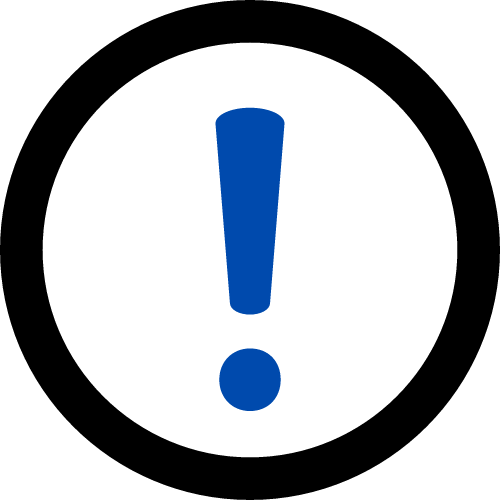
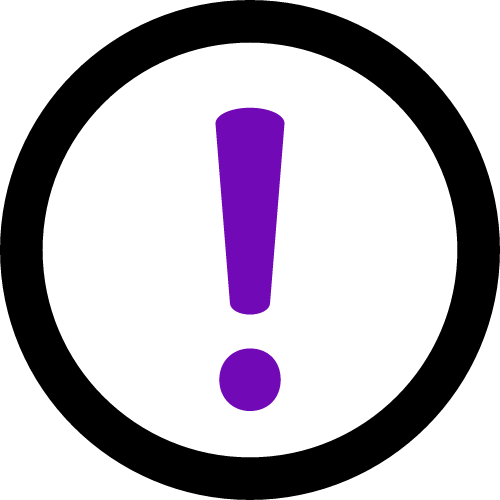
General styling changes, added del functionalities

Changed region(s): [[0.42, 0.21, 0.57, 0.63], [0.42, 0.69, 0.57, 0.84]]

diff --git a/popup/popup.css b/popup/popup.css
@@ -1,31 +1,31 @@
 :root {
-  --blue1: #a4cbff;
-  --blueLogo: #004aad;
-  --blue: #a4cbff;
-  --grey: rgb(240, 240, 240);
+  --main-color: #190028;
+  --button-color: #7209b7;
+  --button-hover-color: #f72585;
 }
 body {
-  width: 25rem;
+  min-width: 25rem;
   font-family: 'Inter', sans-serif;
-  background-color: var(--blue);
+  background-color: var(--main-color);
+  color: whitesmoke;
 }
-h1 {
-  text-align: center;
-  font-weight: 900;
+table {
+  min-width: 100%;
 }
 table,
 td {
-  border: 2px solid black;
+  border: 1px solid whitesmoke;
   border-collapse: collapse;
 }
 td {
   padding: 1rem 0.5rem;
 }
 button {
+  color: whitesmoke;
   padding: 0.5rem 2rem;
-  border: 2px solid black;
+  border: 1px solid var(--button-color);
   border-radius: 2rem;
-  background-color: white;
+  background-color: var(--button-color);
   cursor: pointer;
 }
 img {
@@ -33,23 +33,33 @@ img {
   border-radius: 2rem;
 }
 button:hover {
-  background-color: black;
+  background-color: var(--button-hover-color);
+  border-color: var(--button-hover-color);
   color: white;
+  transition: 0.2s;
 }
-tr {
-  background-color: white;
+input[type='checkbox'] {
+  display: grid;
+  place-content: center;
 }
-tr:nth-child(odd) {
-  background-color: var(--grey);
+input[type='checkbox']::before {
+  content: '';
+  width: 1em;
+  height: 1em;
+  transform: scale(0);
+  box-shadow: inset 1em 1em var(--button-color);
+  transform-origin: bottom left;
+}
+input[type='checkbox']:checked::before {
+  transform: scale(1);
 }
 #button-container {
   padding-block: 1rem 0.5rem;
   display: flex;
-  justify-content: space-between;
+  justify-content: space-around;
 }
 #logo-container {
   display: flex;
   justify-content: center;
-  padding-top: 0.5rem;
-  margin-bottom: -0.4rem;
+  padding-block: 0.5rem 0.8rem;
 }

diff --git a/popup/popup.js b/popup/popup.js
@@ -14,14 +14,34 @@ chrome.bookmarks.getTree((res) => {
     const tr = document.createElement('tr')
     const tdName = document.createElement('td')
     const tdDate = document.createElement('td')
+    const tdCheckbox = document.createElement('td')
     const name = document.createTextNode(bookmark.title)
     const date = document.createTextNode(
       new Date(bookmark.dateAdded).toLocaleString()
     )
+    const checkbox = document.createElement('input')
+    checkbox.setAttribute('type', 'checkbox')
+    checkbox.value = bookmark.id
     tdName.appendChild(name)
     tdDate.appendChild(date)
+    tdCheckbox.appendChild(checkbox)
     tr.appendChild(tdName)
     tr.appendChild(tdDate)
+    tr.appendChild(tdCheckbox)
     document.querySelector('table').appendChild(tr)
+  })
+  document.querySelector('#delAllButton').addEventListener('click', () => {
+    savedForLater.map((item) => {
+      chrome.bookmarks.remove(item.id, () => {})
+    })
+    location.reload()
+  })
+  document.querySelector('#delCheckedButton').addEventListener('click', () => {
+    document.querySelectorAll('input[type="checkbox"]').forEach((item) => {
+      if (item.checked) {
+        chrome.bookmarks.remove(item.value, () => {})
+      }
+    })
+    location.reload()
   })
 })

diff --git a/popup/popup.html b/popup/popup.html
@@ -12,16 +12,16 @@
     <div id="logo-container">
       <img src="../images/icon.png" alt="TabReminder_logo" height="32" />
     </div>
-    <h1>Saved-for-later bookmarks</h1>
     <table>
       <tr id="head-row">
         <td>Name</td>
-        <td>Date</td>
+        <td>Created</td>
+        <td>Del</td>
       </tr>
     </table>
     <div id="button-container">
-      <button>Delete all</button>
-      <button>Delete checked</button>
+      <button id="delAllButton">Delete all</button>
+      <button id="delCheckedButton">Delete checked</button>
     </div>
     <script src="popup.js"></script>
   </body>

diff --git a/service-worker.js b/service-worker.js
@@ -5,7 +5,7 @@ function notifyUser(savedForLater) {
     type: 'basic',
     iconUrl: './images/icon.png',
     title: 'TabReminder',
-    message: `SFL bookmarks: ${savedForLater.length}\nClick the extension icon to manage`,
+    message: `Saved for later bookmarks: ${savedForLater.length}\nClick the extension icon to manage`,
   })
 }
 
@@ -20,6 +20,6 @@ chrome.bookmarks.onChanged.addListener((id, changeInfo) => {
         savedForLater.push(bookmark)
       }
     })
-    notifyUser(savedForLater)
+    if (savedForLater.length > 0) notifyUser(savedForLater)
   })
 })
